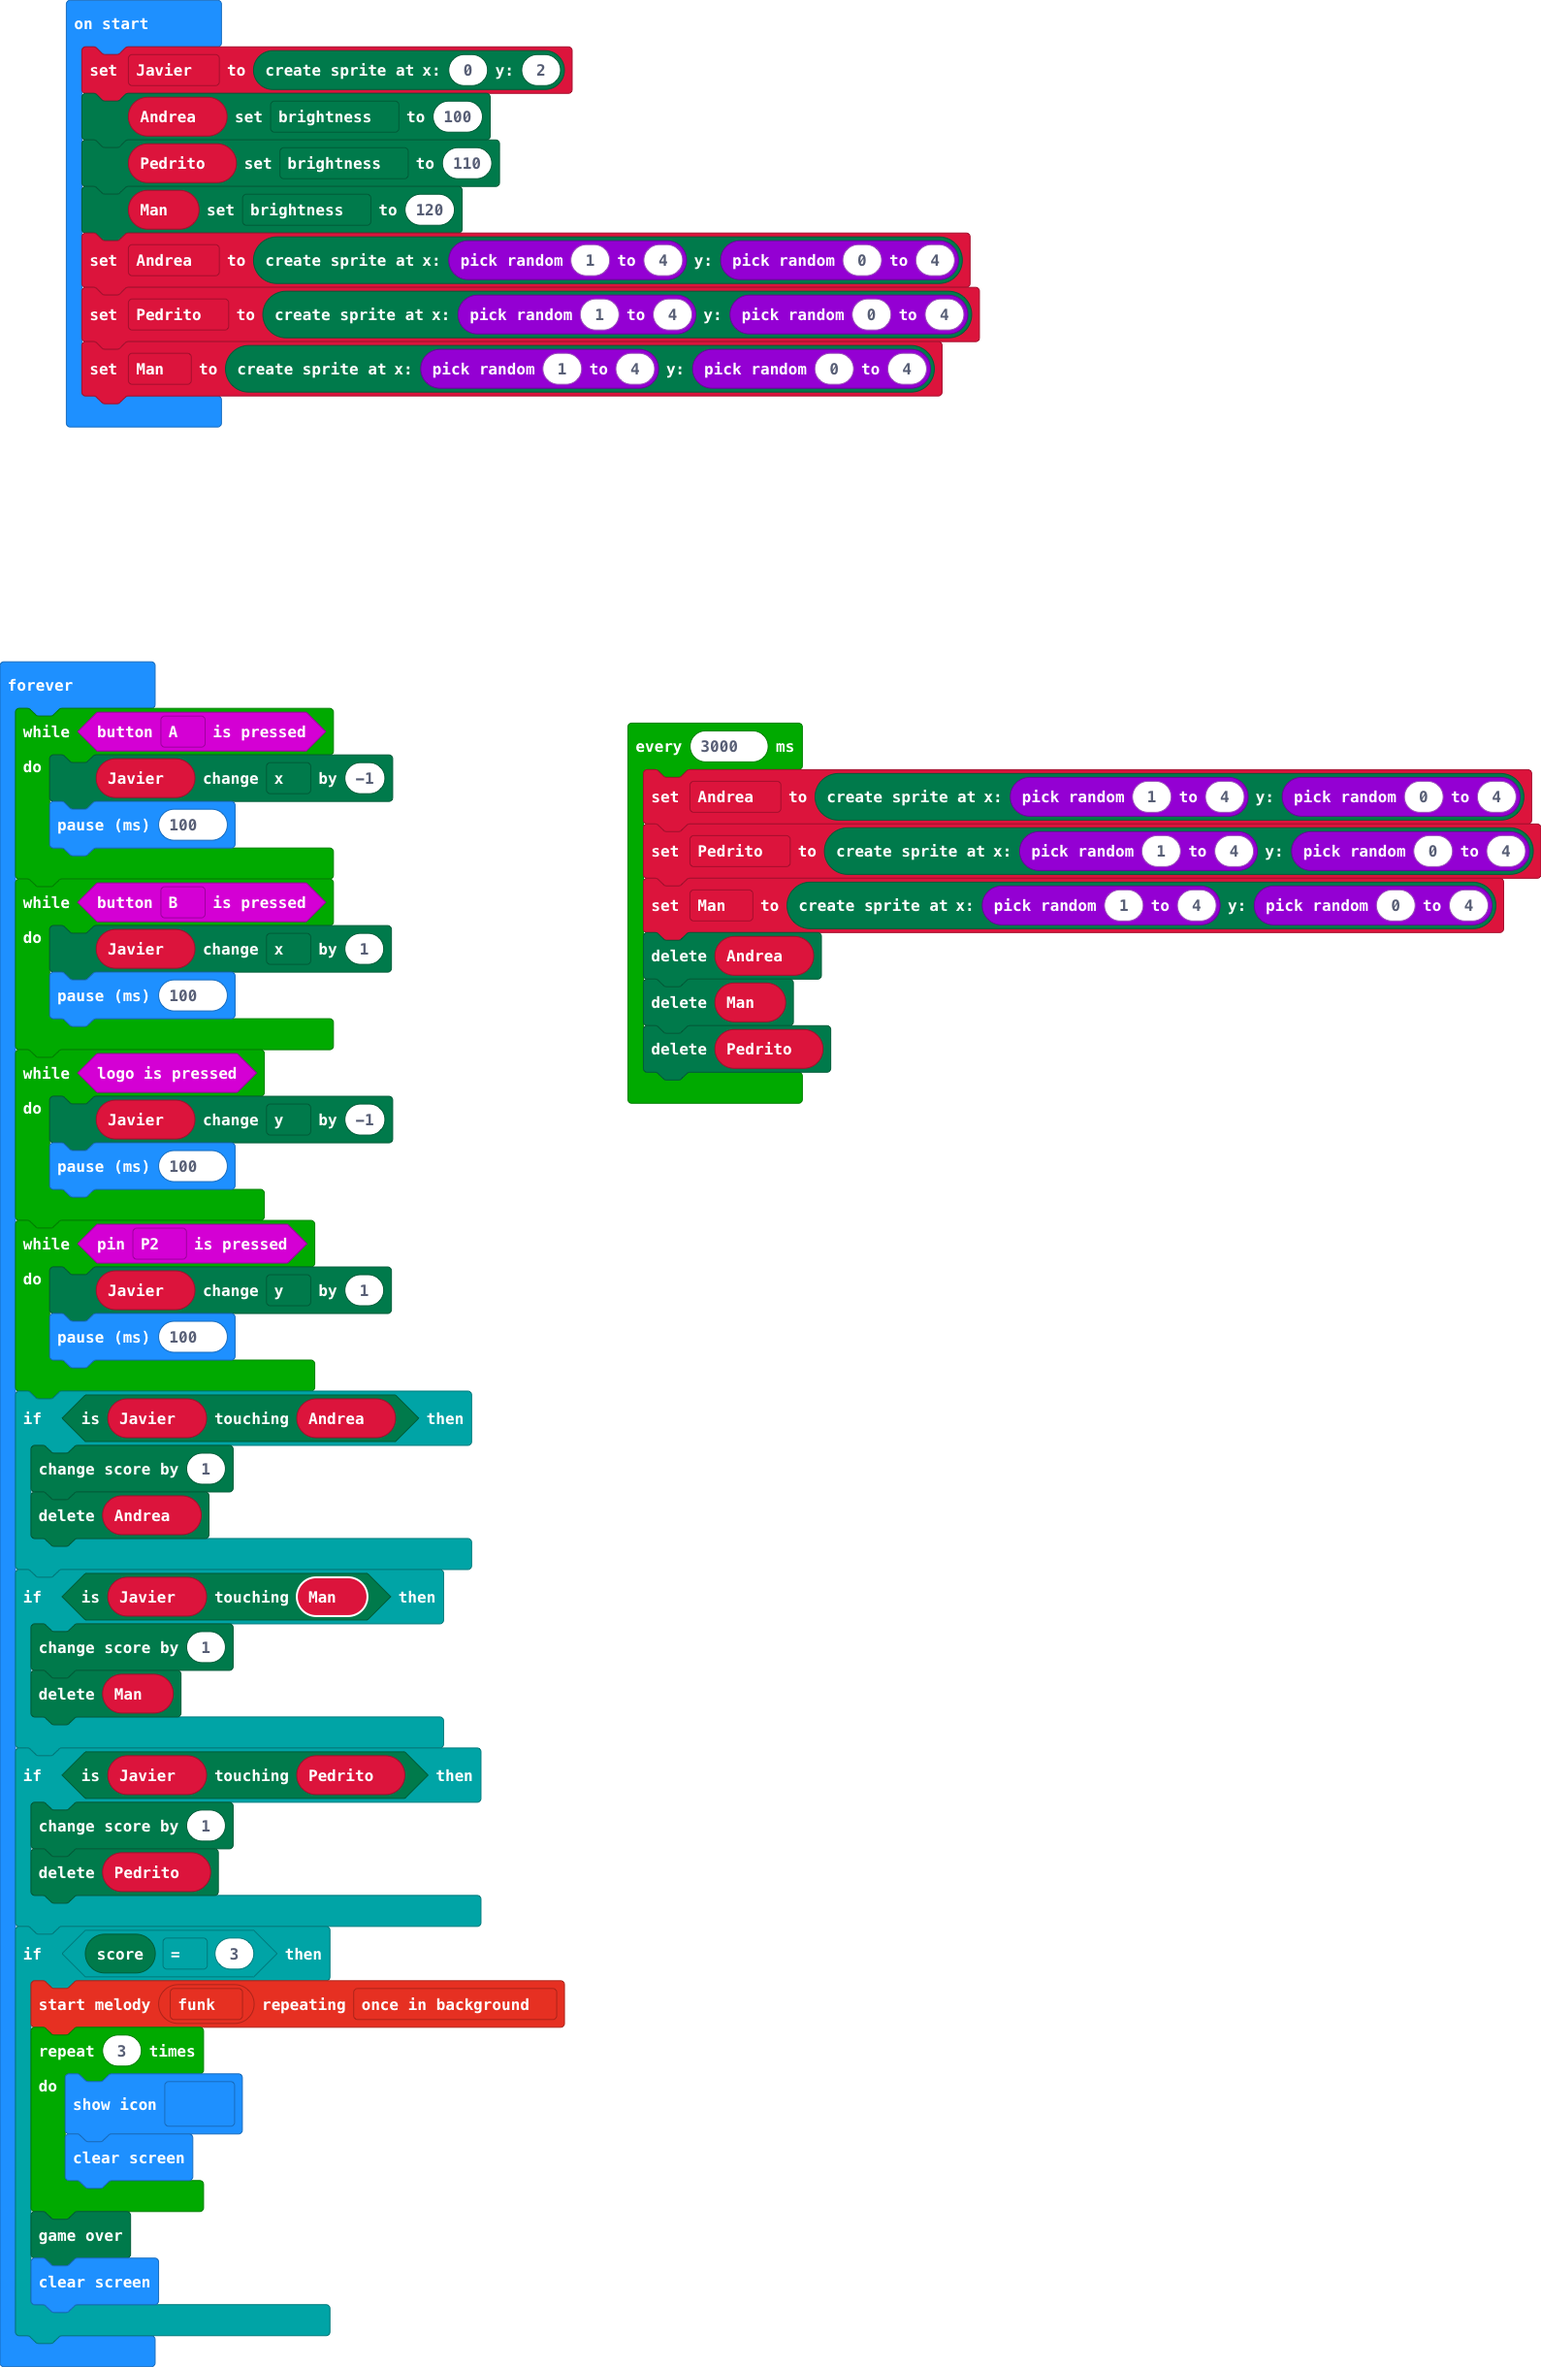
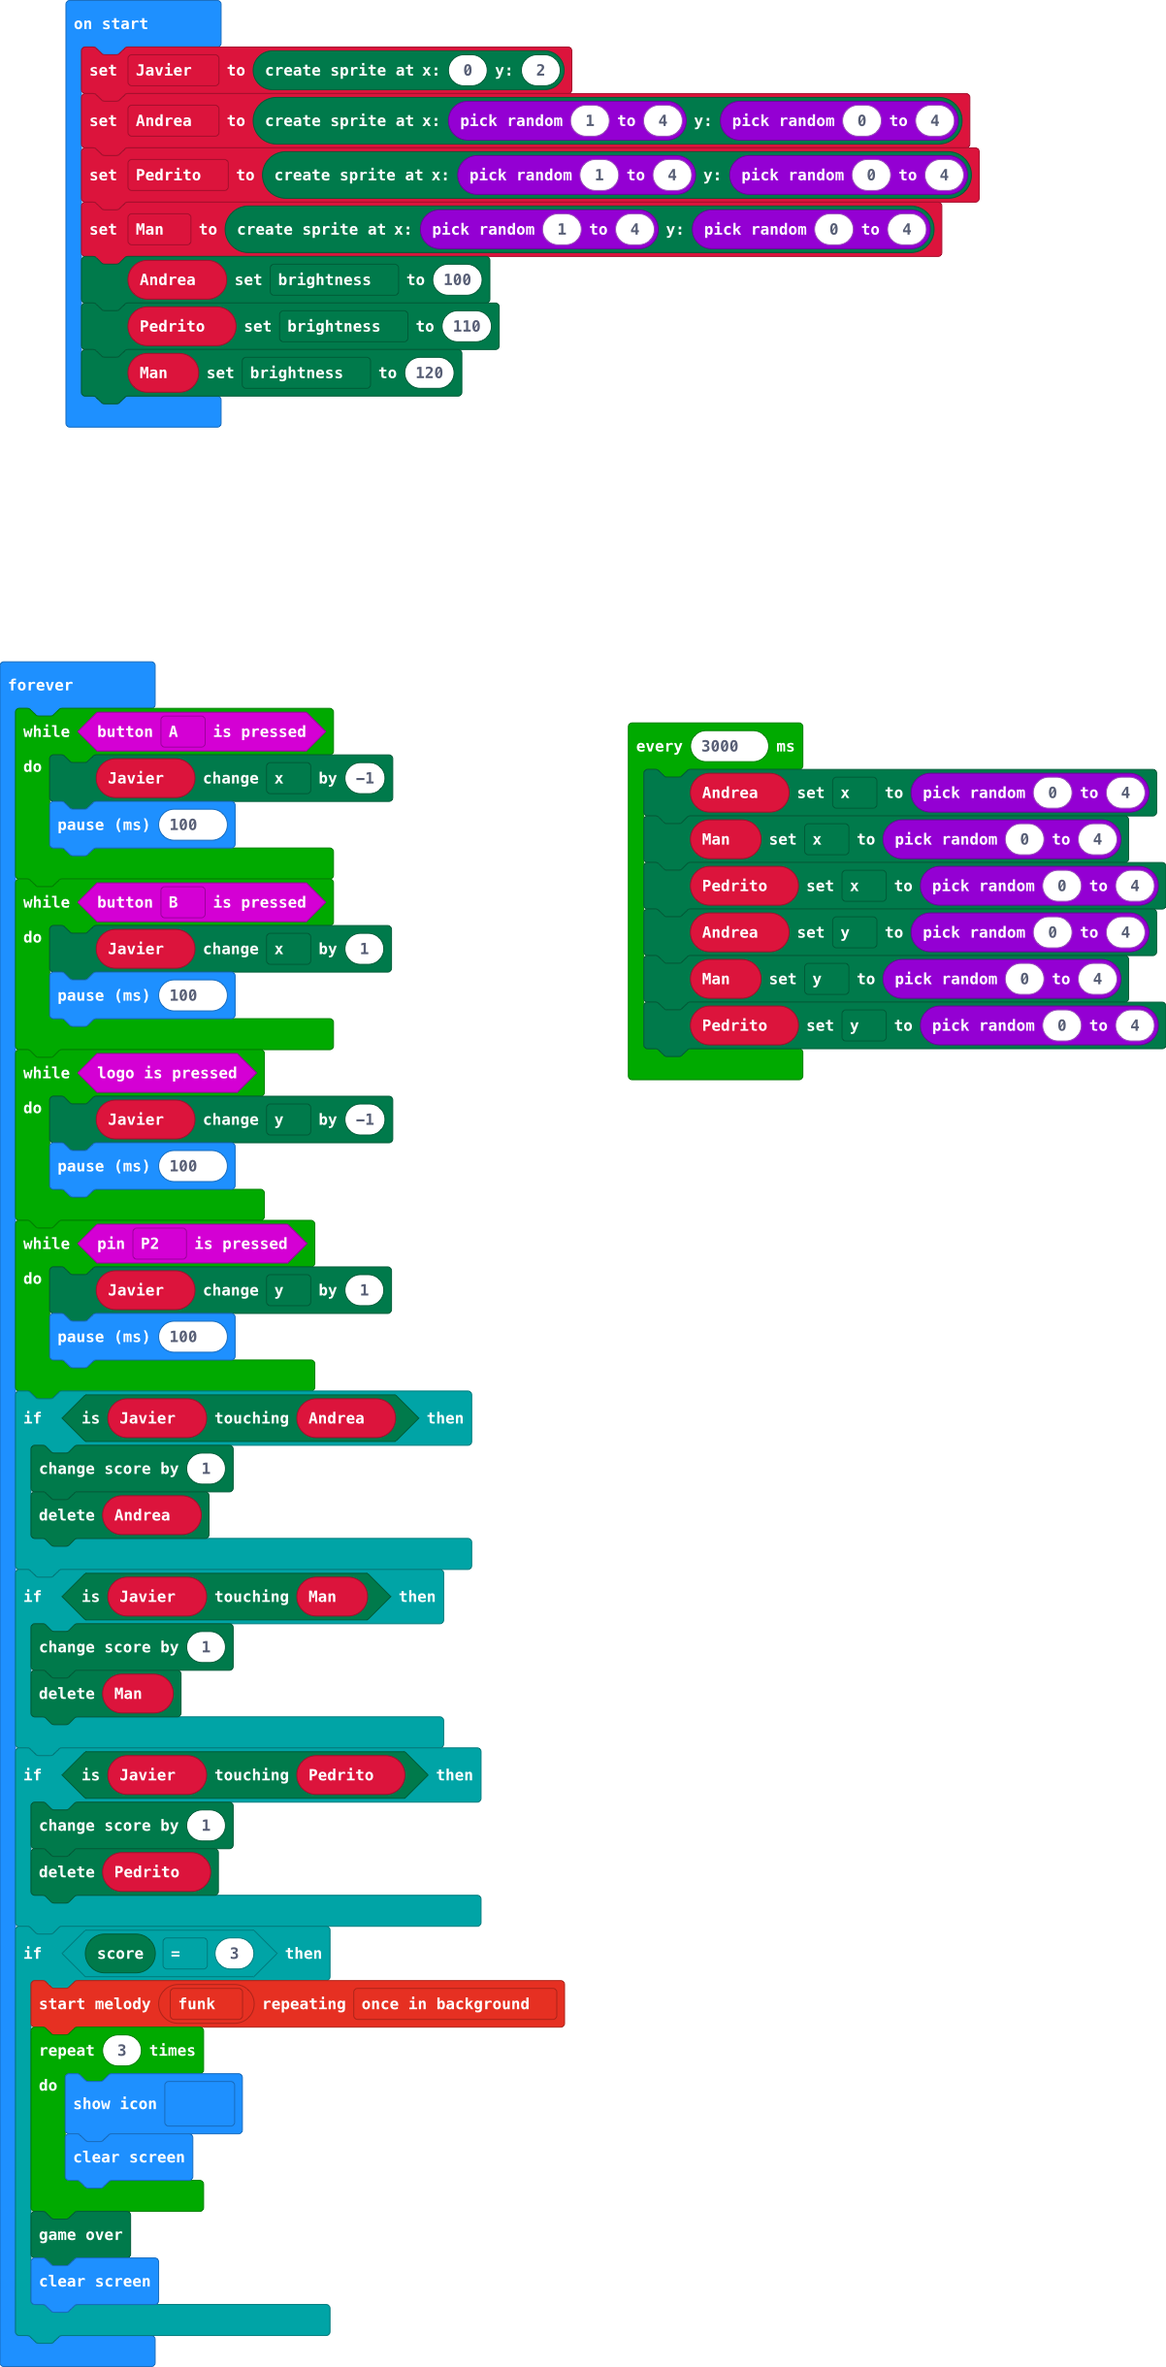
Update main.blocks, main.ts

diff --git a/main.ts b/main.ts
@@ -1,13 +1,10 @@
-let Man: game.LedSprite = null
-let Pedrito: game.LedSprite = null
-let Andrea: game.LedSprite = null
 let Javier = game.createSprite(0, 2)
+let Andrea = game.createSprite(randint(1, 4), randint(0, 4))
+let Pedrito = game.createSprite(randint(1, 4), randint(0, 4))
+let Man = game.createSprite(randint(1, 4), randint(0, 4))
 Andrea.set(LedSpriteProperty.Brightness, 100)
 Pedrito.set(LedSpriteProperty.Brightness, 110)
 Man.set(LedSpriteProperty.Brightness, 120)
-Andrea = game.createSprite(randint(1, 4), randint(0, 4))
-Pedrito = game.createSprite(randint(1, 4), randint(0, 4))
-Man = game.createSprite(randint(1, 4), randint(0, 4))
 basic.forever(function () {
     while (input.buttonIsPressed(Button.A)) {
         Javier.change(LedSpriteProperty.X, -1)
@@ -48,10 +45,10 @@ basic.forever(function () {
     }
 })
 loops.everyInterval(3000, function () {
-    Andrea = game.createSprite(randint(1, 4), randint(0, 4))
-    Pedrito = game.createSprite(randint(1, 4), randint(0, 4))
-    Man = game.createSprite(randint(1, 4), randint(0, 4))
-    Andrea.delete()
-    Man.delete()
-    Pedrito.delete()
+    Andrea.set(LedSpriteProperty.X, randint(0, 4))
+    Man.set(LedSpriteProperty.X, randint(0, 4))
+    Pedrito.set(LedSpriteProperty.X, randint(0, 4))
+    Andrea.set(LedSpriteProperty.Y, randint(0, 4))
+    Man.set(LedSpriteProperty.Y, randint(0, 4))
+    Pedrito.set(LedSpriteProperty.Y, randint(0, 4))
 })
